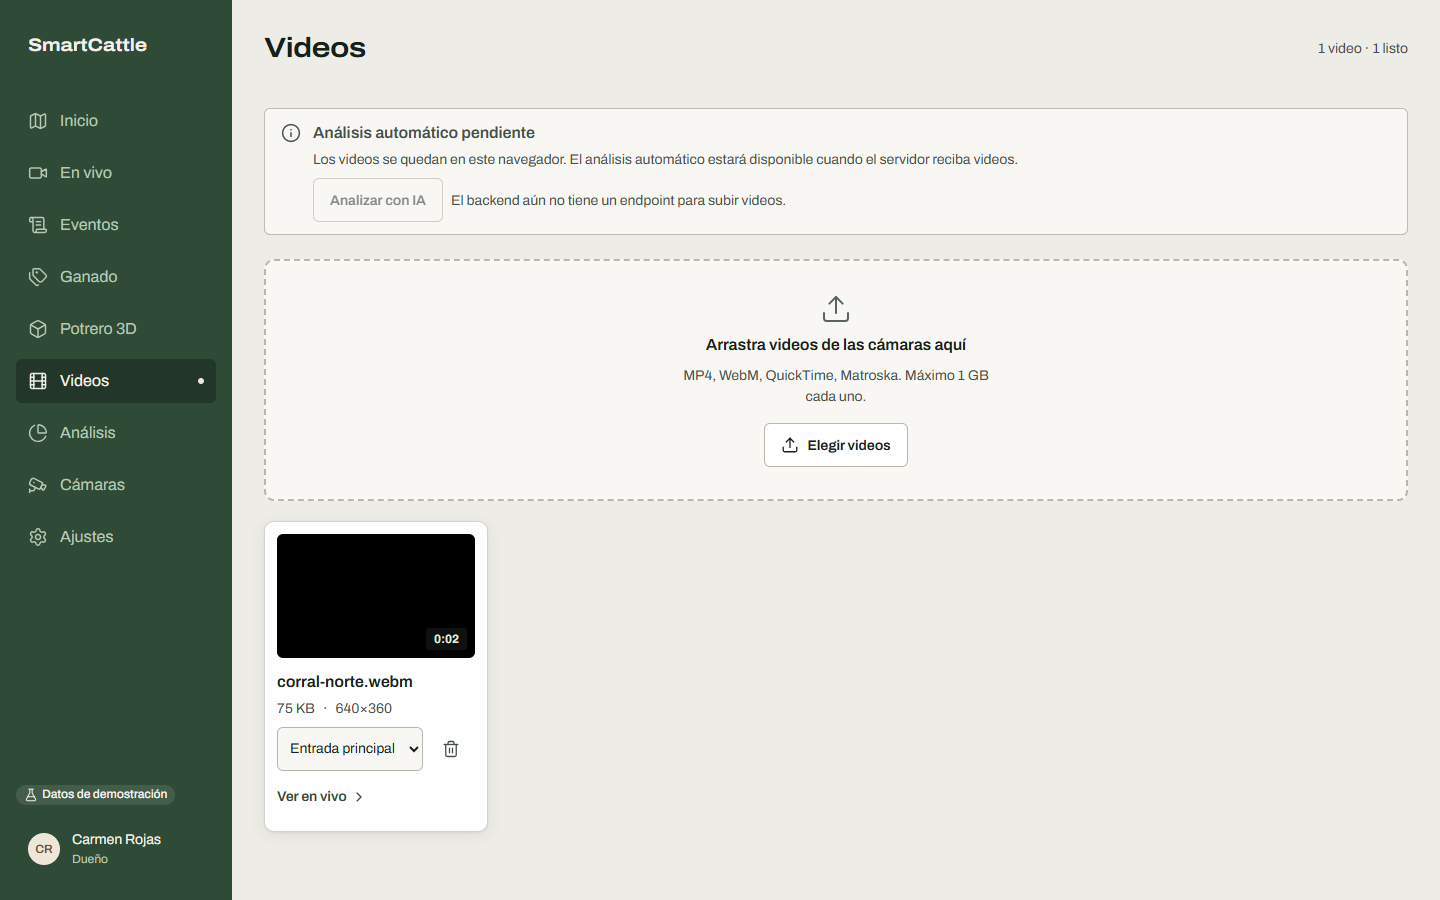
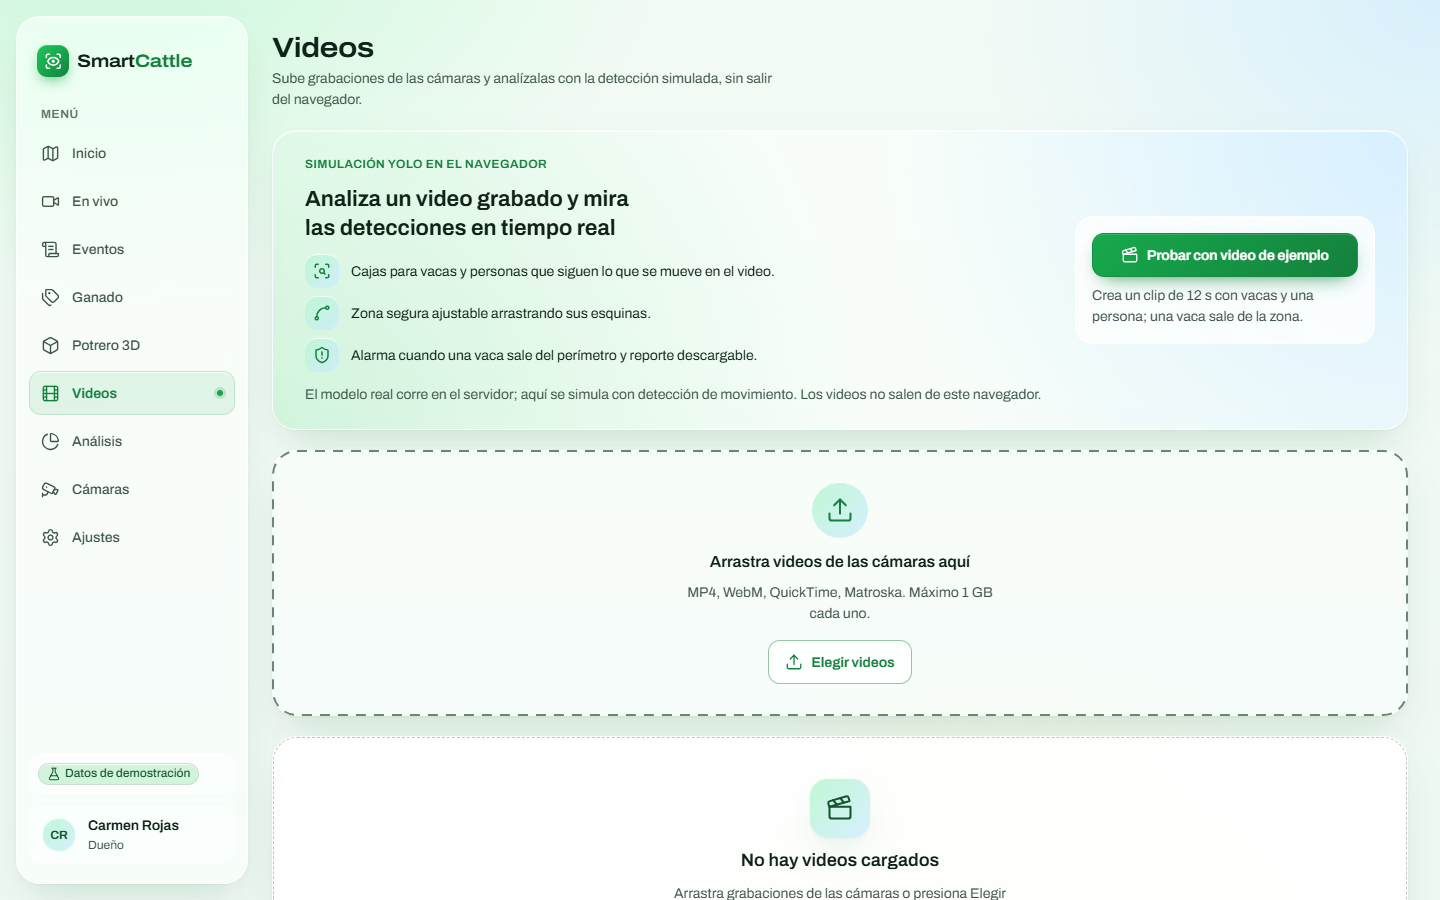
docs(readme): refresh the videos library screenshot and mention the sample clip

diff --git a/README.md b/README.md
@@ -477,7 +477,7 @@ flowchart LR
 
 `/videos` lets the user load farm recordings (drag and drop or "Elegir videos") and review them in the browser.
 
-![Videos page](docs/screenshots/videos-desktop.png)
+![Videos page with the glass library and drop zone](docs/screenshots/videos-desktop.png)
 
 - Files are validated (video type, not empty, up to 1 GB). Rejected files get a reason.
 - Each video gets a thumbnail, duration and resolution read in the browser, and can be assigned to a camera.
@@ -486,7 +486,8 @@ flowchart LR
 |---|---|
 | ![Camera card playing a loaded video](docs/screenshots/cameras-video-desktop.png) | ![Live stage playing a loaded video](docs/screenshots/live-video-desktop.png) |
 
-- **Nothing is uploaded.** The backend has no upload endpoint, so videos stay in the browser as object URLs (released when removed) and the page says so. "Analizar con IA" is disabled with the reason written next to it.
+- **Nothing is uploaded.** The backend has no upload endpoint, so videos stay in the browser as object URLs (released when removed) and the page says so.
+- **Sample clip.** Evaluators without footage can generate a sample pasture clip from the notice at the top of the page.
 
 ---
 
